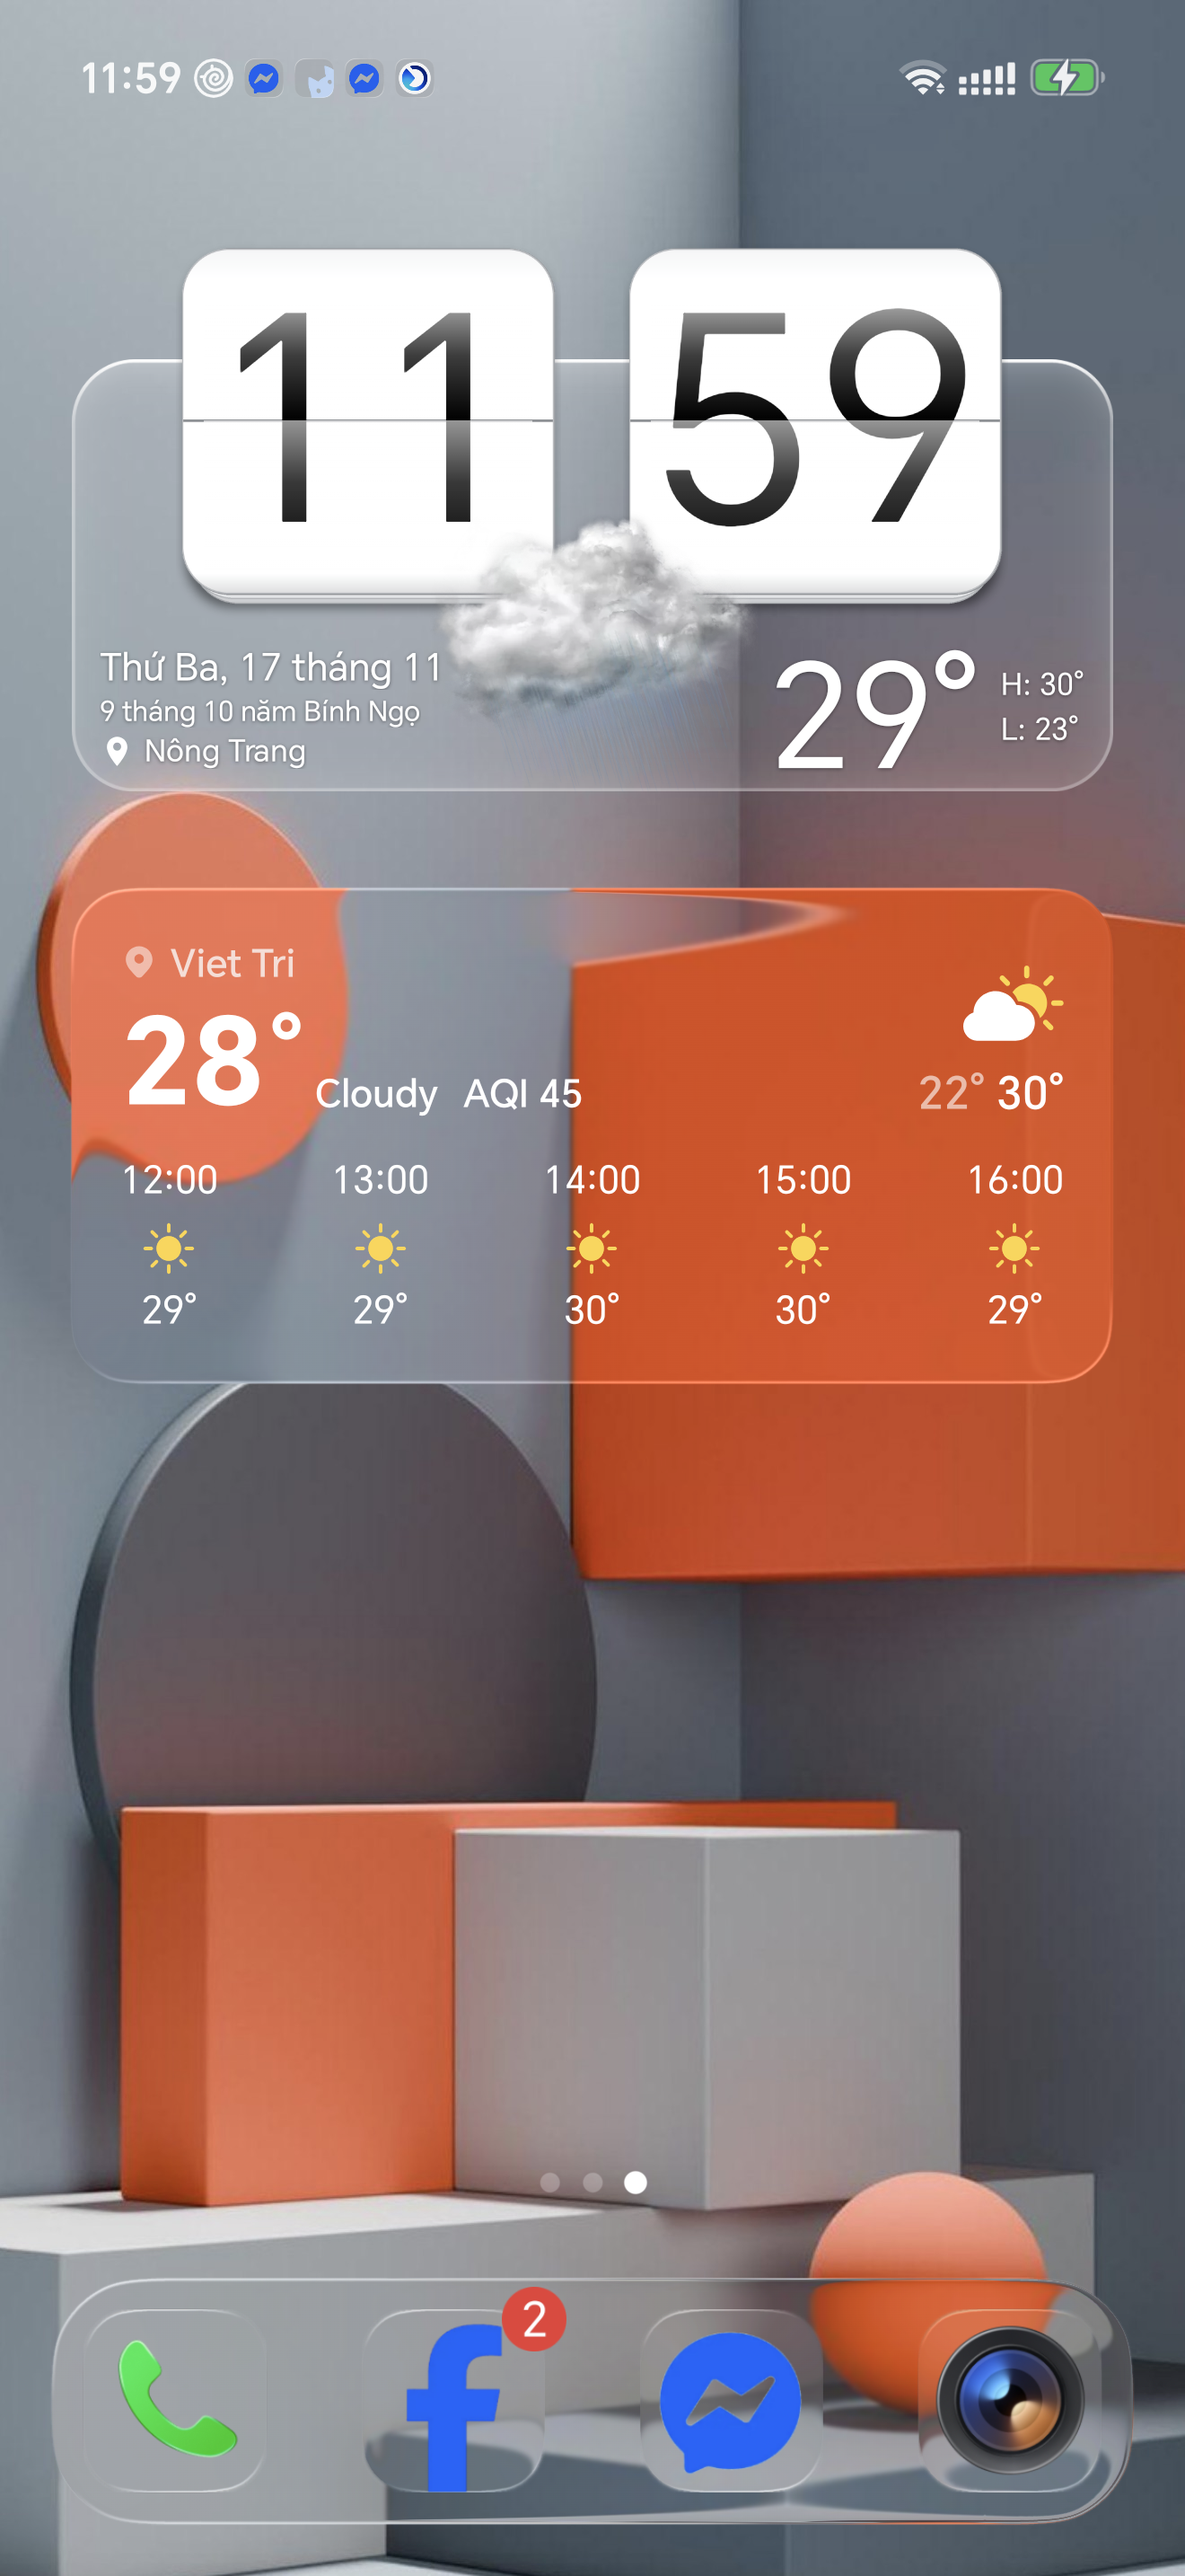
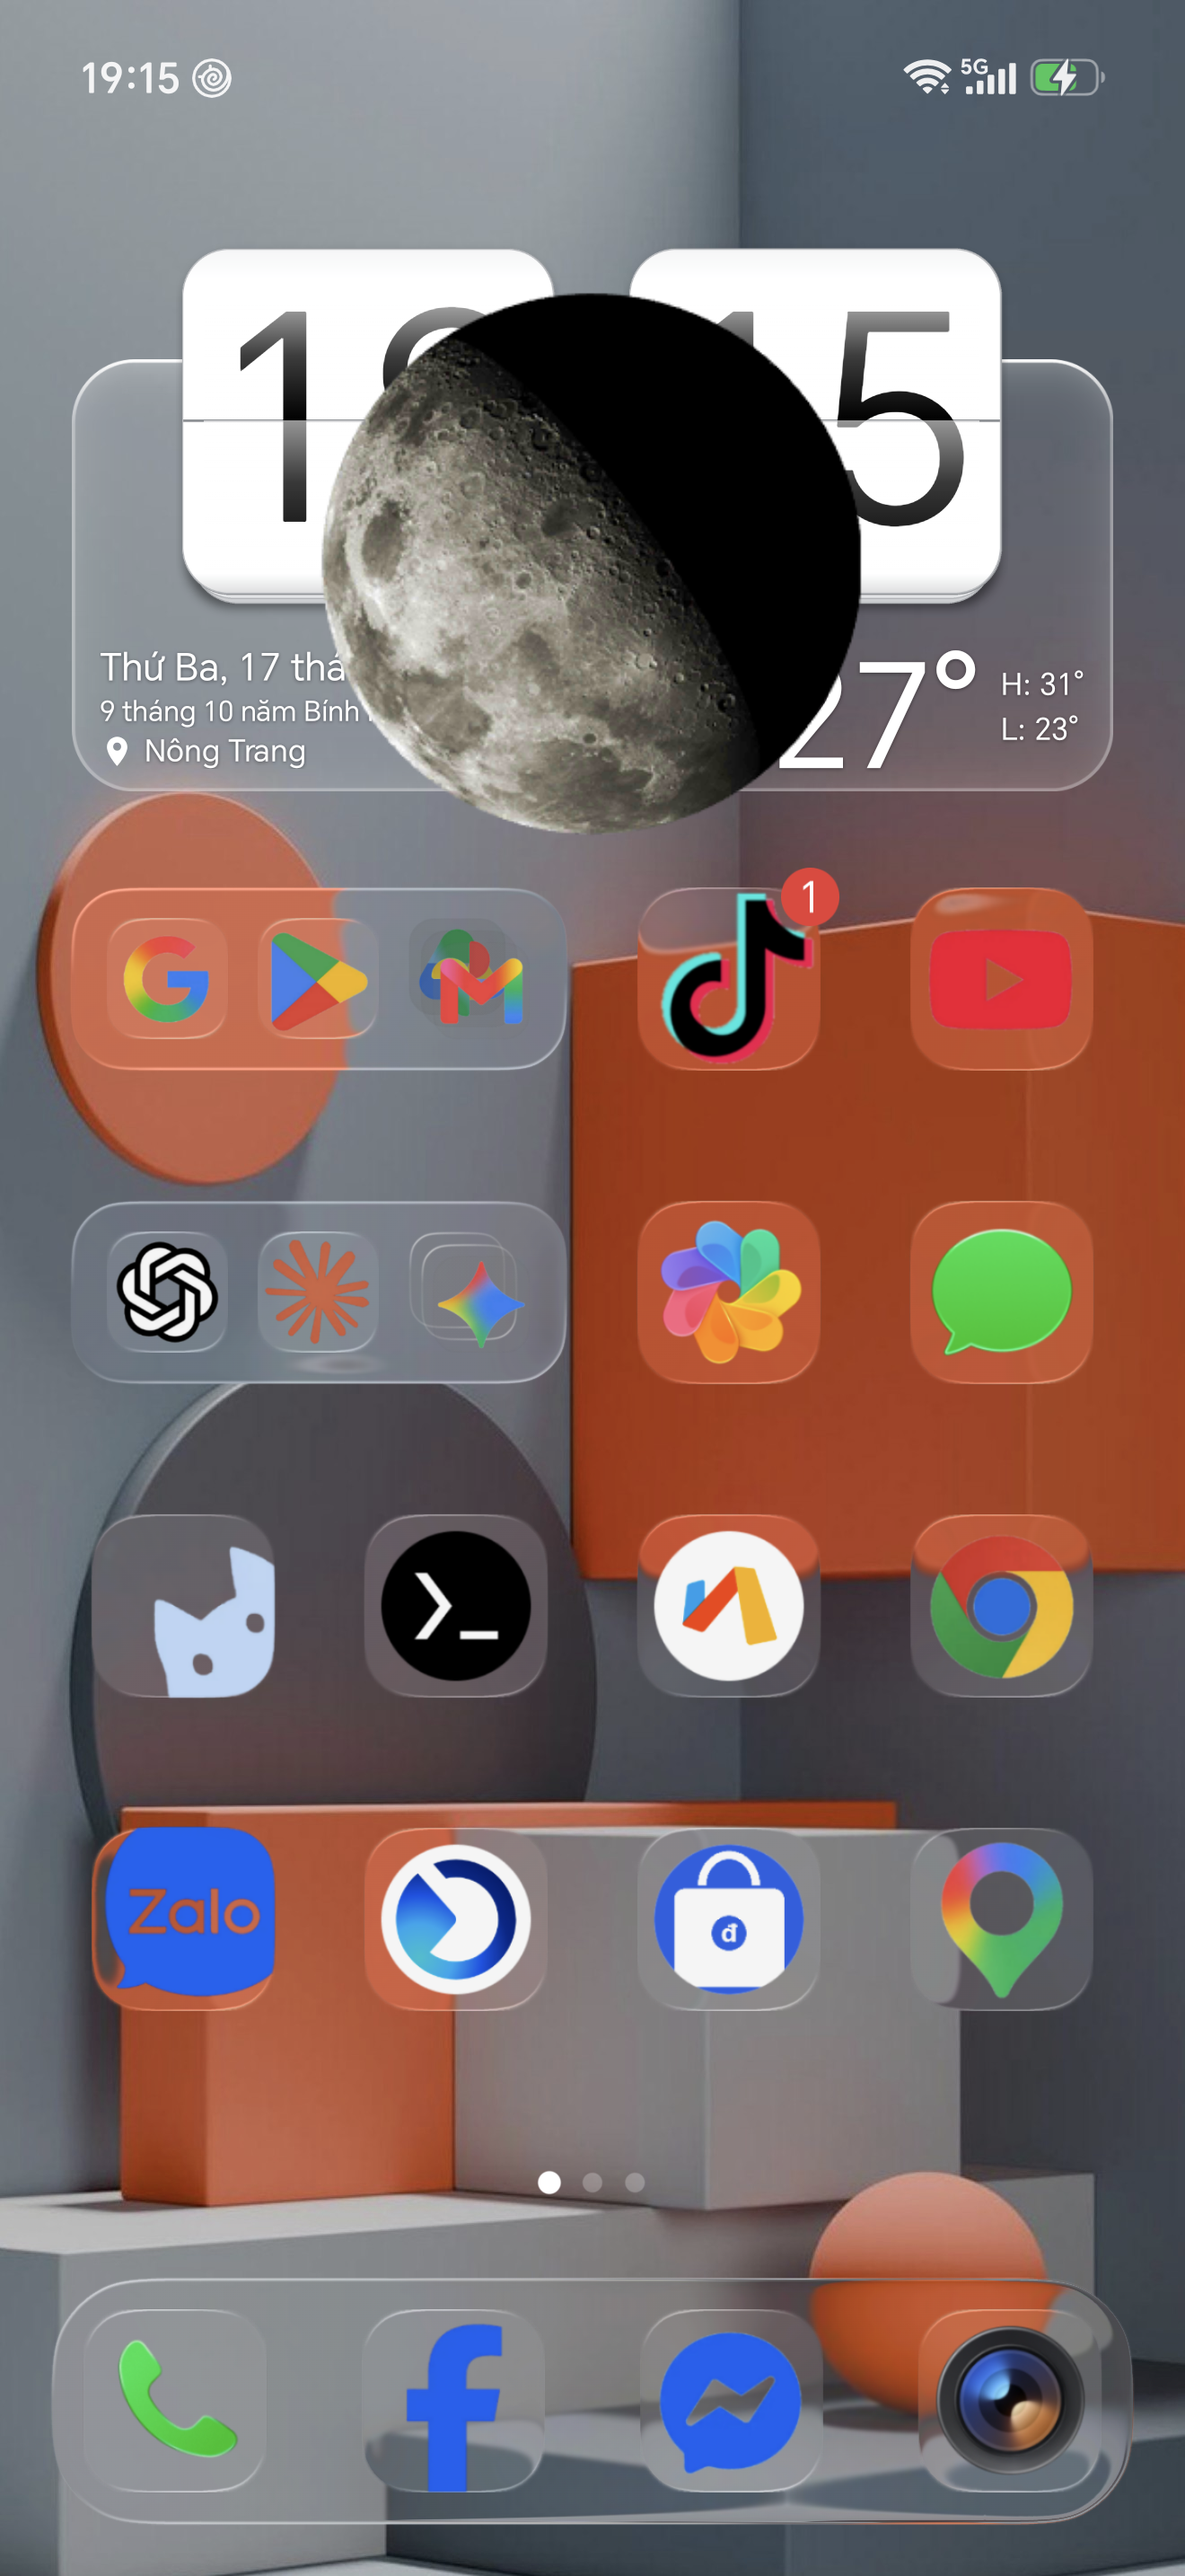
Website: HTC Flip Weather 1.5.2 (HTC Sense weather scenes, 5x2)

diff --git a/index.html b/index.html
@@ -53,12 +53,12 @@
     <section id="weather" class="section wrap product-section" aria-labelledby="weatherTitle">
       <div class="product-panel glass">
         <div class="product-copy">
-          <div class="product-identity"><span class="product-icon debloat-icon"><img src="assets/weather/icon.webp" alt="" width="56" height="56" loading="lazy"></span><span class="release-chip glass capsule"><span class="status-dot"></span> Bản 1.5.0</span></div>
+          <div class="product-identity"><span class="product-icon debloat-icon"><img src="assets/weather/icon.webp" alt="" width="56" height="56" loading="lazy"></span><span class="release-chip glass capsule"><span class="status-dot"></span> Bản 1.5.2</span></div>
           <h2 id="weatherTitle">HTC Flip <span class="gradient-text">Weather</span></h2>
-          <ul class="product-benefits"><li><span data-icon="layers"></span>Đồng hồ lật kiểu HTC</li><li><span data-icon="globe"></span>Thời tiết tự cập nhật mỗi giờ</li><li><span data-icon="check"></span>Lịch âm tiếng Việt</li><li><span data-icon="sparkles"></span>Nền kính trong suốt</li></ul>
-          <div class="product-actions"><a class="button primary capsule" href="https://github.com/vietng228/weather/releases/download/v1.5.0/WeatherWidget-1.5.0.apk"><span data-icon="download"></span>Tải HTC Flip Weather</a><a class="text-link" href="https://github.com/vietng228/weather/releases/tag/v1.5.0" target="_blank" rel="noopener noreferrer">Thông tin bản phát hành <span aria-hidden="true">↗</span></a></div>
+          <ul class="product-benefits"><li><span data-icon="layers"></span>Đồng hồ lật kiểu HTC, 4x2 và 5x2</li><li><span data-icon="sparkles"></span>Cảnh thời tiết 3D kiểu HTC Sense</li><li><span data-icon="globe"></span>Thời tiết tự cập nhật mỗi giờ</li><li><span data-icon="check"></span>Lịch âm tiếng Việt</li></ul>
+          <div class="product-actions"><a class="button primary capsule" href="https://github.com/vietng228/weather/releases/download/v1.5.2/WeatherWidget-1.5.2.apk"><span data-icon="download"></span>Tải HTC Flip Weather</a><a class="text-link" href="https://github.com/vietng228/weather/releases/tag/v1.5.2" target="_blank" rel="noopener noreferrer">Thông tin bản phát hành <span aria-hidden="true">↗</span></a></div>
         </div>
-        <figure class="product-preview"><button class="screen-open phone product-phone" data-full="assets/weather/home.png" data-title="HTC Flip Weather 1.5.0 · Ảnh chụp thật" aria-label="Xem ảnh chụp đầy đủ HTC Flip Weather"><img src="assets/weather/home.webp" alt="Ảnh chụp thật widget HTC Flip Weather trên màn hình chính: đồng hồ lật 11:59, ngày âm lịch, nhiệt độ 29 độ" width="720" height="1565" loading="lazy"></button></figure>
+        <figure class="product-preview"><button class="screen-open phone product-phone" data-full="assets/weather/home.png" data-title="HTC Flip Weather 1.5.2 · Ảnh chụp thật" aria-label="Xem ảnh chụp đầy đủ HTC Flip Weather"><img src="assets/weather/home.webp" alt="Ảnh chụp thật: bấm biểu tượng thời tiết, cảnh trăng 3D kiểu HTC phát ngay trên widget đồng hồ lật" width="720" height="1565" loading="lazy"></button></figure>
       </div>
     </section>
 
